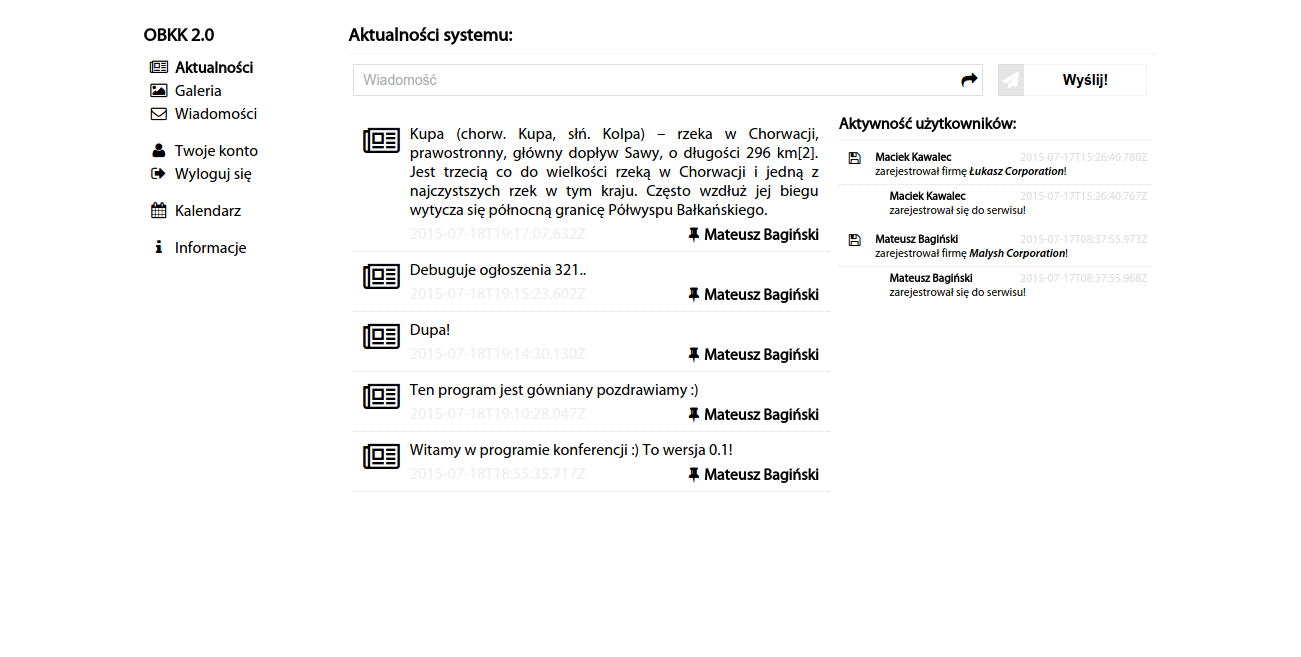
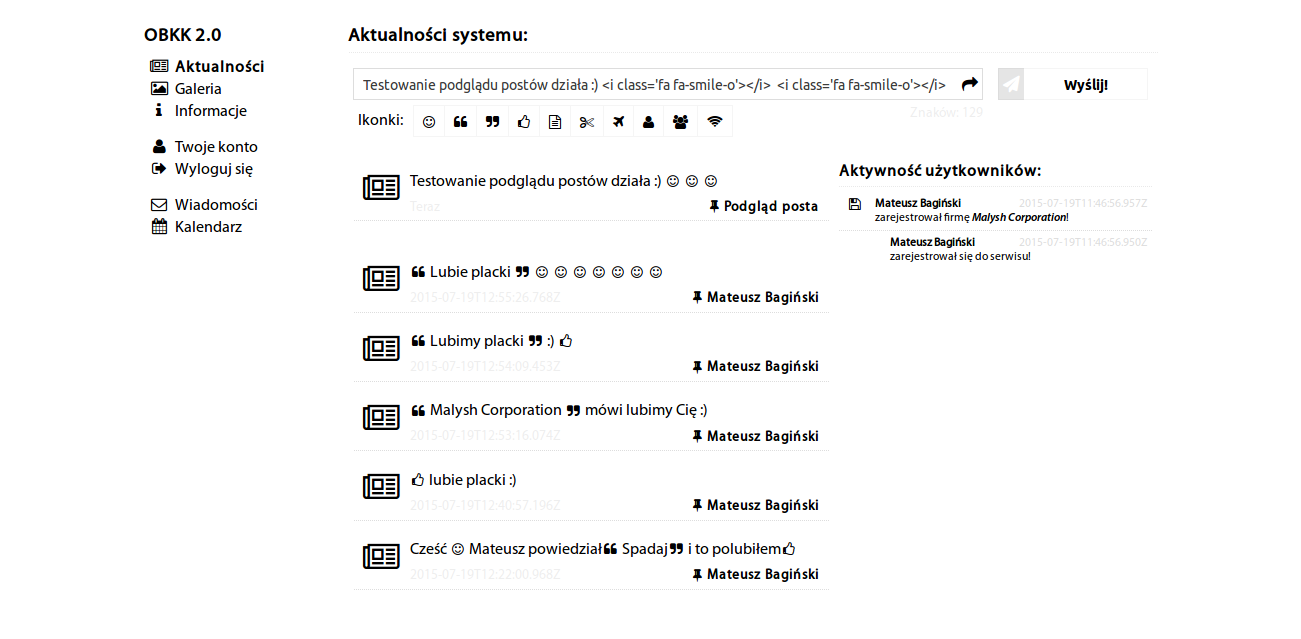
Add news preview

diff --git a/ts/shared/_all.ts b/ts/shared/_all.ts
@@ -16,6 +16,7 @@
 /// <reference path="./directives/alias.ts" />
 /// <reference path="./directives/title.ts" />
 /// <reference path="./directives/toggleClass.ts" />
+/// <reference path="./directives/filters.ts" />
 
 module Shared {
     'use strict';
@@ -60,7 +61,8 @@ module Shared {
 
         .directive('appPermission', Directives.Permission.factory())
         .directive('appTitle', Directives.Title.factory())
-        .directive('ngToggleClass', Directives.ToggleClass.factory());
+        .directive('ngToggleClass', Directives.ToggleClass.factory())
+        .filter('trustHtml', Filters.trustHtml);
 
     /** Dodawanie alliasów */
     _(Directives.aliases).each((val: any, attribute: string) => {

diff --git a/data/less/const.less b/data/less/const.less
@@ -43,9 +43,13 @@
     white-space:   nowrap;
   };
   /** Rozmieszczenie tekstu */
-  &-center { text-align: center; };
-  &-left   { text-align: left;   };
-  &-right  { text-align: right;  };
+  &-center  { text-align: center; };
+  &-left    { text-align: left;   };
+  &-right   { text-align: right;  };
+  &-justify {
+    text-align: justify;
+    word-break: break-all;
+  };
 
   &-italic    { font-style: italic;         };
   &-bold      { font-weight: bold;          };

diff --git a/ts/main.ts b/ts/main.ts
@@ -64,6 +64,14 @@ module Application {
                 , data: {
                     flags: [ 'logged' ]
                 }
+            })
+            .state('inbox', {
+                  url: '/inbox'
+                , templateUrl: 'views/inbox.html'
+                , title: 'Skrzynka pocztowa:'
+                , data: {
+                    flags: [ 'logged' ]
+                }
             });
     }
 

diff --git a/data/less/page.less b/data/less/page.less
@@ -155,10 +155,9 @@ button:extend(.control, .active) {
 .btn-group {
   margin: 0 5px;
   button {
-    &:not(:first-child):not(:last-child) {
-      border-radius: 0;
-      border-right:  0;
-      border-left:   0;
+    border-radius: 0;
+    &:not(:last-child) {
+      border-right: 0;
     };
     &:first-of-type {
       border-top-right-radius:    0;

diff --git a/data/less/views/news.less b/data/less/views/news.less
@@ -4,12 +4,16 @@
   padding:       5px 5px 0;
   width:         100%;
   border-bottom: 1px dotted @info;
+  margin-bottom: 10px;
   i {
     margin-right: 5px;
   };
   .content {
-    margin: 0 0 5px;
-    text-align: justify;
+    margin: 0 0 8px;
+    i {
+      font-size: @small;
+      margin:    0 2px;
+    };
   };
   div {
     margin-bottom: 0px;

diff --git a/ts/shared/directives/filters.ts b/ts/shared/directives/filters.ts
@@ -1,0 +1,11 @@
+///<reference path="../_all.ts"/>
+
+module Shared.Filters {
+    /** Filtr wykorzystywany do walidacji html'a w ng-bind-html */
+    export function trustHtml($sce: ng.ISCEService) {
+        return (text) => {
+            return $sce.trustAsHtml(text);
+        };
+    }
+}
+

diff --git a/ts/shared/controllers/news.ts b/ts/shared/controllers/news.ts
@@ -62,6 +62,7 @@ module Shared.Controllers {
                         msg: this.$scope.form.message
                     }
                 }, _(this.$timeout).partial(this.reload.bind(this), 400));
+            this.$scope.form.message = '';
         }
     }
 }

diff --git a/data/less/main.less b/data/less/main.less
@@ -27,6 +27,12 @@
   cursor: pointer;
 };
 
+/** about w menu */
+span.about:extend(.pull-right) {
+  text-align: right;
+  color:      @divider;
+};
+
 /** Logowanie */
 @import "views/login";
 @import "views/menu";
